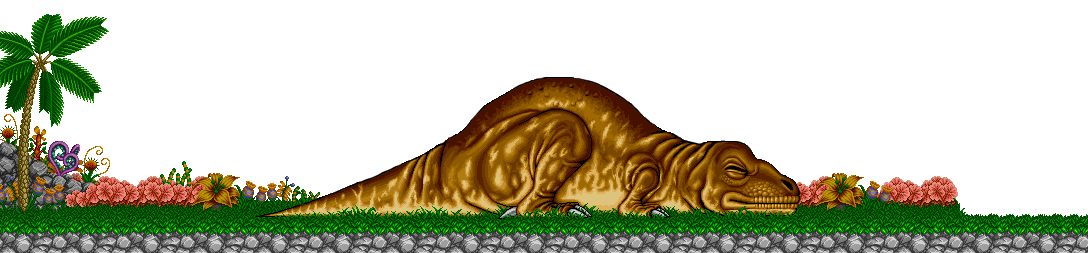
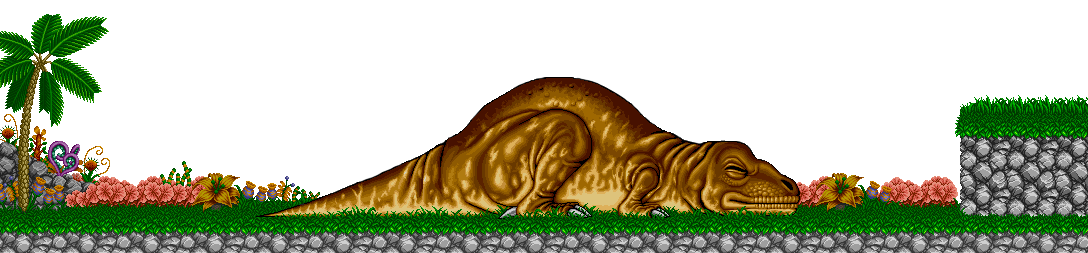
Puesta a punto
Realizados una serie de cambios para completar el juego:
* Creado una clase EnemySpawner que hace aparecer un enemigo tan pronto
sea visible en pantalla.
* Recolocados los enemigos para asemejarse a su posición en el juego
original.
* Añadido un par de imágenes al final del nivel para mejorar su aspecto
estético.
* Duplicada la velocidad de caída de los huevos.
* Solucionado un problema que causaba que a veces no se reprodujese el
sonido de victoria.
* Añadido un método Contains a Camera que devuelve si un punto está
contenido en la cámara o no.

Changed region(s): [[0.875, 0.3874, 1.0, 0.8577]]

diff --git a/CavemanNinja/SpawnEntityOnEnterCameraComponent.cpp b/CavemanNinja/SpawnEntityOnEnterCameraComponent.cpp
@@ -1,0 +1,34 @@
+#include "SpawnEntityOnEnterCameraComponent.h"
+#include "Entity.h"
+#include "Transform.h"
+#include "Application.h"
+#include "ModuleRender.h"
+#include "Camera.h"
+
+SpawnEntityOnEnterCameraComponent::SpawnEntityOnEnterCameraComponent(Entity * spawnedEntity)
+{
+	this->spawnedEntity = spawnedEntity;
+}
+
+SpawnEntityOnEnterCameraComponent::~SpawnEntityOnEnterCameraComponent()
+{
+	// Si la entidad no ha sido spawneada, la elimina
+	if (!spawned)
+		RELEASE(spawnedEntity);
+}
+
+bool SpawnEntityOnEnterCameraComponent::OnUpdate()
+{
+	if (!spawned)
+	{
+		fPoint position = entity->transform->GetGlobalPosition();
+		if (App->renderer->GetActiveCamera()->Contains(position))
+		{
+			spawnedEntity->transform->SetGlobalPosition(position.x, position.y);
+			spawnedEntity->Instantiate();
+			spawned = true;
+			this->Disable();
+		}
+	}
+	return true;
+}

diff --git a/GameEngine/Camera.cpp b/GameEngine/Camera.cpp
@@ -27,3 +27,15 @@ SDL_Rect Camera::GetViewArea()
 
 	return viewArea;
 }
+
+bool Camera::Contains(fPoint point)
+{
+	fPoint cameraPosition = transform->GetGlobalPosition();
+	fPoint cameraScale = transform->GetGlobalScale();
+	if (point.x < cameraPosition.x || point.x > cameraPosition.x + (width * cameraScale.x / SCREEN_SIZE))
+		return false;
+	else if (point.y < cameraPosition.y || point.y > cameraPosition.y + (height * cameraScale.y / SCREEN_SIZE))
+		return false;
+	else
+		return true;
+}

diff --git a/CavemanNinja/SpawnEntityOnEnterCameraComponent.h b/CavemanNinja/SpawnEntityOnEnterCameraComponent.h
@@ -1,0 +1,19 @@
+#ifndef __SPAWNENTITYONENTERCAMERACOMPONENT_H__
+#define __SPAWNENTITYONENTERCAMERACOMPONENT_H__
+
+#include "Component.h"
+
+class SpawnEntityOnEnterCameraComponent : public Component
+{
+public:
+	SpawnEntityOnEnterCameraComponent(Entity* spawnedEntity);
+	virtual ~SpawnEntityOnEnterCameraComponent();
+
+protected:
+	bool OnUpdate();
+
+public:
+	bool spawned;
+	Entity* spawnedEntity;
+};
+#endif	// __SPAWNENTITYONENTERCAMERACOMPONENT_H__

diff --git a/CavemanNinja/PlayerAnimator.cpp b/CavemanNinja/PlayerAnimator.cpp
@@ -128,7 +128,7 @@ PlayerAnimator* PlayerAnimator::Create()
 	dieHarvest->frames.push_back({ 6, 3 });
 	dieHarvest->frames.push_back({ 7, 3 });
 
-	BasicAnimation* dieExhaust = new BasicAnimation(1024, 1024, 8, 8, 4.0f, false);
+	BasicAnimation* dieExhaust = new BasicAnimation(1024, 1024, 8, 8, 6.0f, false);
 	dieExhaust->frames.push_back({ 3, 7 });
 	dieExhaust->frames.push_back({ 4, 7 });
 	dieExhaust->frames.push_back({ 5, 7 });

diff --git a/CavemanNinja/EnemySpawner.cpp b/CavemanNinja/EnemySpawner.cpp
@@ -1,0 +1,20 @@
+#include "EnemySpawner.h"
+#include "SpawnEntityOnEnterCameraComponent.h"
+#include "Enemy.h"
+
+EnemySpawner::EnemySpawner(Enemy * enemy, float positionX, float positionY)
+	: Entity(name, positionX, positionY)
+{
+	this->enemy = enemy;
+	OnCreate();
+}
+
+void EnemySpawner::OnCreate()
+{
+	AddComponent(new SpawnEntityOnEnterCameraComponent(enemy));
+}
+
+void EnemySpawner::OnDestroy()
+{
+	// No hace nada
+}

diff --git a/CavemanNinja/EnemySpawner.h b/CavemanNinja/EnemySpawner.h
@@ -1,0 +1,21 @@
+#ifndef __ENEMYSPAWNER_H__
+#define __ENEMYSPAWNER_H__
+
+#include "Entity.h"
+
+class Enemy;
+
+class EnemySpawner : public Entity
+{
+public:
+	EnemySpawner(Enemy* enemy, float positionX = 0.0f, float positionY = 0.0f);
+	virtual ~EnemySpawner() { OnDestroy(); };
+
+protected:
+	void OnCreate();
+	void OnDestroy();
+
+public:
+	Enemy* enemy;
+};
+#endif	// __ENEMYSPAWNER_H__

diff --git a/GameEngine/Camera.h b/GameEngine/Camera.h
@@ -1,6 +1,8 @@
 #ifndef __CAMERA_H__
 #define __CAMERA_H__
 
+#include "Point.h"
+
 struct SDL_Rect;
 class Transform;
 
@@ -12,6 +14,7 @@ public:
 
 public:
 	SDL_Rect GetViewArea();
+	bool Contains(fPoint point);
 
 	bool active;
 

diff --git a/CavemanNinja/Egg.cpp b/CavemanNinja/Egg.cpp
@@ -16,7 +16,7 @@
 #define FLY_SPEED { 0.0f, 0.0f }
 #define GRAVITY 0.0f
 #define FRICTION 0.5f
-#define SPEED_DOWN 25.0f
+#define SPEED_DOWN 50.0f
 #define NUMBER_OF_WEAPONS 3
 #define ACTIVATION_DELAY 0.1f
 
